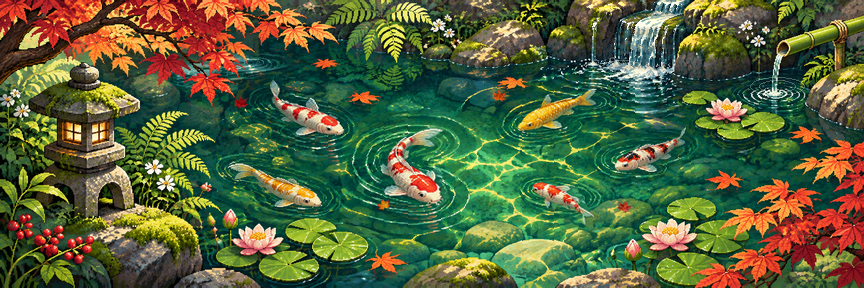
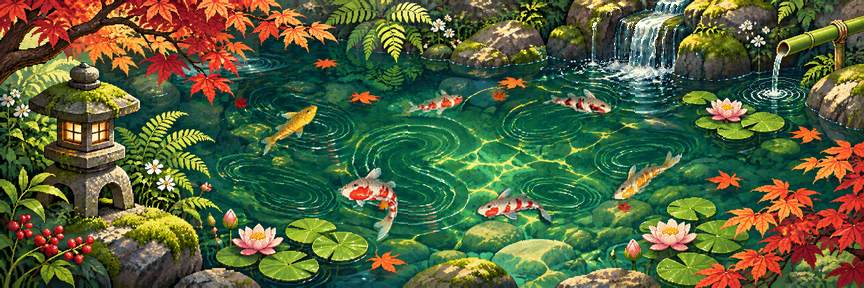
Make all six koi swim full paths with visible tail strokes

diff --git a/scripts/render_banner.py b/scripts/render_banner.py
@@ -1,4 +1,4 @@
-"""Animate the original many-koi artwork as a seamless six-second scene.
+"""Animate the original many-koi artwork with swimming fish and a living pond.
 
 Run: python scripts/render_banner.py
 Install: python -m pip install -r requirements-banner.txt
@@ -8,7 +8,7 @@ this renderer animates the water, waterfall, foliage, fish and floating leaves.
 """
 
 from collections import deque
-from math import cos, pi, sin, tau
+from math import atan2, cos, degrees, pi, sin, tau
 from pathlib import Path
 
 import numpy as np
@@ -16,7 +16,7 @@ from PIL import Image, ImageDraw, ImageFilter, ImageChops
 
 ROOT = Path(__file__).resolve().parents[1]
 WIDTH, HEIGHT = 864, 288
-FRAMES, SECONDS = 72, 6
+FRAMES, SECONDS = 180, 12
 
 
 def mask_polygon(points, blur=4):
@@ -91,7 +91,22 @@ class Scene:
         warm = ((self.pixels[:, :, 0].astype(int) > self.pixels[:, :, 2].astype(int) + 65)
                 & (self.pixels[:, :, 0] > 150))
         self.lantern *= warm
-        self.fish = load_fish()
+        # Register each original pose to face right. Rotation along the route
+        # can then keep its head pointed in the direction it actually travels.
+        original_headings = (.38, .52, .92, 2.78, -2.62, 2.72)
+        self.fish = []
+        self.routes = []
+        for index, ((sprite, cx, cy), heading) in enumerate(zip(load_fish(), original_headings)):
+            sprite = sprite.rotate(degrees(heading), Image.Resampling.BICUBIC, expand=True)
+            sprite = sprite.resize((round(sprite.width * .82), round(sprite.height * .82)),
+                                   Image.Resampling.LANCZOS)
+            self.fish.append((sprite, cx, cy))
+            rx = (195, 207, 184, 201, 190, 204)[index]
+            ry = (56, 61, 52, 59, 55, 60)[index]
+            angles = np.linspace(0, tau, 2049)
+            points = np.column_stack((rx * np.cos(angles), ry * np.sin(angles)))
+            distance = np.concatenate(([0], np.cumsum(np.linalg.norm(np.diff(points, axis=0), axis=1))))
+            self.routes.append((rx, ry, angles, distance / distance[-1]))
         atlas = Image.open(ROOT / "maple/leaves-atlas.png").convert("RGBA")
         self.leaves = []
         for index in range(4):
@@ -102,8 +117,34 @@ class Scene:
             tile.thumbnail((16, 16), Image.Resampling.LANCZOS)
             self.leaves.append(tile)
 
+    def fish_pose(self, index, t):
+        """A full pond circuit, paced by arc length rather than angle."""
+        rx, ry, angles, distance = self.routes[index]
+        progress = ((t % 1) + index / len(self.fish) + .035) % 1
+        angle = float(np.interp(progress, distance, angles))
+        return (470 + rx * cos(angle), 154 + ry * sin(angle),
+                atan2(ry * cos(angle), -rx * sin(angle)))
+
+    def swimming_sprite(self, index, t):
+        sprite = self.fish[index][0]
+        pixels = np.asarray(sprite)
+        yy, xx = np.mgrid[:sprite.height, :sprite.width]
+        left, _, right, _ = sprite.getchannel("A").getbbox()
+        along_body = np.clip((xx - left) / max(1, right - left), 0, 1)
+        # The head stays steady while a travelling body wave grows toward the
+        # tail. Six pixels is visible at README size, unlike the previous wobble.
+        tail_weight = (1 - along_body) ** 1.65
+        stroke = tau * (16 * (t % 1)) + index * 1.3
+        bend = 6.0 * tail_weight * np.sin(stroke - along_body * 4)
+        sample_y = np.clip(np.rint(yy + bend).astype(int), 0, sprite.height - 1)
+        moving = Image.fromarray(pixels[sample_y, xx])
+        _, _, heading = self.fish_pose(index, t)
+        return moving.rotate(-degrees(heading), Image.Resampling.BICUBIC, expand=True)
+
     def render(self, t):
-        phase = tau * (t % 1)
+        # Keep the background's existing six-second cadence while the fish
+        # take twelve seconds to complete their much larger swimming paths.
+        phase = tau * ((2 * t) % 1)
         dx = self.water * (1.35 * np.sin(self.yy / 10 + phase)
                            + .55 * np.sin(self.xx / 25 - 2 * phase))
         dy = self.water * .8 * np.sin(self.xx / 18 + phase)
@@ -123,7 +164,7 @@ class Scene:
         draw = ImageDraw.Draw(ripples)
         for rx, ry, scale in ((.9, .30, 1), (.72, .235, .75)):
             for ring in range(3):
-                progress = (t * 4 + ring / 3) % 1
+                progress = (t * 8 + ring / 3) % 1
                 radius = (8 + progress * 29) * scale
                 opacity = round(95 * sin(pi * progress))
                 cx, cy = WIDTH * rx, HEIGHT * ry
@@ -136,16 +177,11 @@ class Scene:
             draw.line((x - 3, y, x + 3, y), fill=(238, 243, 176, alpha))
         scene = Image.alpha_composite(scene, ripples)
 
-        for index, (sprite, cx, cy) in enumerate(self.fish):
-            local = phase + index * 1.3
-            pixels = np.asarray(sprite)
-            yy, xx = np.mgrid[:sprite.height, :sprite.width]
-            bend = 1.5 * np.sin(yy / 11 + 2 * local)
-            sample_x = np.clip(np.rint(xx + bend).astype(int), 0, sprite.width - 1)
-            moving = Image.fromarray(pixels[yy, sample_x])
-            moving = moving.rotate(2.2 * sin(local), Image.Resampling.BICUBIC, expand=True)
-            x = round(cx + 6 * sin(local) - moving.width / 2)
-            y = round(cy + 3 * cos(local) - moving.height / 2)
+        for index in range(len(self.fish)):
+            cx, cy, _ = self.fish_pose(index, t)
+            moving = self.swimming_sprite(index, t)
+            x = round(cx - moving.width / 2)
+            y = round(cy - moving.height / 2)
             shadow = Image.new("RGBA", moving.size, (0, 25, 24, 0))
             shadow.putalpha(moving.getchannel("A").point(lambda a: a // 6))
             scene.alpha_composite(shadow, (x + 2, y + 3))
@@ -181,8 +217,8 @@ def main():
             frame.paste(255, mask=unchanged)
         previous = indices
         frames.append(frame)
-        durations.append((80, 80, 90)[index % 3])
-    output = ROOT / "banner/many-koi.gif"
+        durations.append((60, 70, 70)[index % 3])
+    output = ROOT / "banner/many-koi-swimming.gif"
     frames[0].save(output, save_all=True, append_images=frames[1:], duration=durations,
                    loop=0, optimize=False, transparency=255, disposal=1)
     scene.render(0).save(ROOT / "banner/many-koi-still.png")

diff --git a/banner/README.md b/banner/README.md
@@ -1,11 +1,14 @@
 # Many-koi garden banner
 
-The original `pond-banner.png` is preserved. The README displays `many-koi.gif`
+The original `pond-banner.png` is preserved. The README displays `many-koi-swimming.gif`
 above the garden sign, with the original still image as a reduced-motion fallback.
 
-This six-second loop animates the pond water, waterfall, expanding ripples,
-foliage, lantern light, the six koi, and drifting maple leaves. The camera stays
-fixed. The activity-driven koi pond remains a separate daily-updated scene.
+This twelve-second loop gives all six koi full swimming circuits around the
+pond, head direction matched to travel, and a travelling body wave with visible
+tail strokes. Paths are paced by arc length. The existing water, waterfall,
+ripples, foliage, lantern light, and leaf animation retain their six-second
+cadence. The camera stays fixed. The activity-driven koi pond remains a separate
+daily-updated scene.
 
 ## Rebuild
 

diff --git a/README.md b/README.md
@@ -1,7 +1,7 @@
 <p align="center">
   <picture>
     <source media="(prefers-reduced-motion: reduce)" srcset="pond-banner.png" />
-    <img src="banner/many-koi.gif" width="100%" alt="The original many-koi garden brought to life with swimming koi, flowing pond water and waterfall, expanding ripples, swaying foliage, and drifting maple leaves" />
+    <img src="banner/many-koi-swimming.gif" width="100%" alt="Six koi swimming around the garden pond with visible tail strokes, flowing water and waterfall, expanding ripples, swaying foliage, and drifting maple leaves" />
   </picture>
 </p>
 
